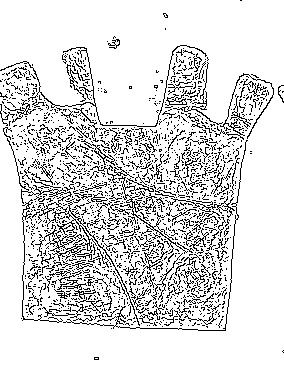
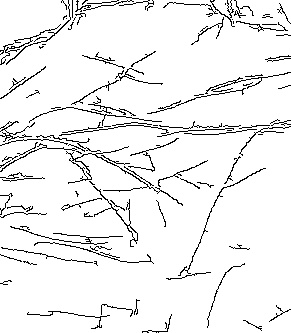
线条提取

diff --git a/zi_ext.py b/zi_ext.py
@@ -1,0 +1,114 @@
+# -*- coding: utf-8 -*-
+"""
+Created on Tue Mar 20 10:53:50 2018
+
+@author: Administrator
+"""
+import cv2 as cv
+import numpy as np
+
+
+def VThin(image, array):
+    h = image.shape[1]
+    w = image.shape[0]
+    NEXT = 1
+    for i in range(399):
+        for j in range(399):
+            if NEXT == 0:
+                NEXT = 1
+            else:
+                M = image[i, j - 1] + image[i, j] + image[i, j + 1] if 0 < j < w - 1 else 1
+                if image[i, j] == 0 and M != 0:
+                    a = [0] * 9
+                    for k in range(3):
+                        for l in range(3):
+                            if -1 < (i - 1 + k) < h and -1 < (j - 1 + l) < w and image[i - 1 + k, j - 1 + l] == 255:
+                                a[k * 3 + l] = 1
+                    sum = a[0] * 1 + a[1] * 2 + a[2] * 4 + a[3] * 8 + a[5] * 16 + a[6] * 32 + a[7] * 64 + a[8] * 128
+                    image[i, j] = array[sum] * 255
+                    if array[sum] == 1:
+                        NEXT = 0
+    return image
+
+
+print('4')
+
+
+def HThin(image, array):
+    h = image.shape[1]
+    w = image.shape[0]
+    NEXT = 1
+    for j in range(399):
+        for i in range(399):
+            if NEXT == 0:
+                NEXT = 1
+            else:
+                M = image[i - 1, j] + image[i, j] + image[i + 1, j] if 0 < i < h - 1 else 1
+                if image[i, j] == 0 and M != 0:
+                    a = [0] * 9
+                    for k in range(3):
+                        for l in range(3):
+                            if -1 < (i - 1 + k) < h and -1 < (j - 1 + l) < w and image[i - 1 + k, j - 1 + l] == 255:
+                                a[k * 3 + l] = 1
+                    sum = a[0] * 1 + a[1] * 2 + a[2] * 4 + a[3] * 8 + a[5] * 16 + a[6] * 32 + a[7] * 64 + a[8] * 128
+                    image[i, j] = array[sum] * 255
+                    if array[sum] == 1:
+                        NEXT = 0
+    return image
+
+
+print('3')
+
+
+def Xihua(image, array, num=10):
+    h = image.shape[1]
+    w = image.shape[0]
+    iXihua = np.zeros((w, h, 1), dtype=np.uint8)
+    np.copyto(iXihua, image)
+    for i in range(num):
+        VThin(iXihua, array)
+        HThin(iXihua, array)
+    return iXihua
+
+
+print('2')
+
+
+def Two(image):
+    h = image.shape[1]
+    w = image.shape[0]
+
+    iTwo = np.zeros((w, h, 1), dtype=np.uint8)
+    for i in range(399):
+        for j in range(399):
+            iTwo[i, j] = 0 if image[i, j] < 200 else 255
+    return iTwo
+
+
+print('1')
+array = [0, 0, 1, 1, 0, 0, 1, 1, 1, 1, 0, 1, 1, 1, 0, 1, \
+         1, 1, 0, 0, 1, 1, 1, 1, 0, 0, 0, 0, 0, 0, 0, 1, \
+         0, 0, 1, 1, 0, 0, 1, 1, 1, 1, 0, 1, 1, 1, 0, 1, \
+         1, 1, 0, 0, 1, 1, 1, 1, 0, 0, 0, 0, 0, 0, 0, 1, \
+         1, 1, 0, 0, 1, 1, 0, 0, 0, 0, 0, 0, 0, 0, 0, 0, \
+         0, 0, 0, 0, 0, 0, 0, 0, 0, 0, 0, 0, 0, 0, 0, 0, \
+         1, 1, 0, 0, 1, 1, 0, 0, 1, 1, 0, 1, 1, 1, 0, 1, \
+         0, 0, 0, 0, 0, 0, 0, 0, 0, 0, 0, 0, 0, 0, 0, 0, \
+         0, 0, 1, 1, 0, 0, 1, 1, 1, 1, 0, 1, 1, 1, 0, 1, \
+         1, 1, 0, 0, 1, 1, 1, 1, 0, 0, 0, 0, 0, 0, 0, 1, \
+         0, 0, 1, 1, 0, 0, 1, 1, 1, 1, 0, 1, 1, 1, 0, 1, \
+         1, 1, 0, 0, 1, 1, 1, 1, 0, 0, 0, 0, 0, 0, 0, 0, \
+         1, 1, 0, 0, 1, 1, 0, 0, 0, 0, 0, 0, 0, 0, 0, 0, \
+         1, 1, 0, 0, 1, 1, 1, 1, 0, 0, 0, 0, 0, 0, 0, 0, \
+         1, 1, 0, 0, 1, 1, 0, 0, 1, 1, 0, 1, 1, 1, 0, 0, \
+         1, 1, 0, 0, 1, 1, 1, 0, 1, 1, 0, 0, 1, 0, 0, 0]
+print('5')
+image = cv.imread('/Users/yusi/Desktop/cv_palm/similarity/test3/PolyU_06_1.bmp', 0)
+iTwo = Two(image)
+iThin = Xihua(iTwo, array)
+cv.imshow('image', image)
+cv.imshow('iTwo', iTwo)
+cv.imshow('iThin', iThin)
+cv.waitKey(0)
+cv.imwrite('/Users/yusi/Desktop/cv_palm/similarity/test3/PolyU_06_2.bmp',iThin)
+

diff --git a/plam2line/Line_extraction.py b/plam2line/Line_extraction.py
@@ -1,25 +1,16 @@
-#!/usr/bin/env python3
-# -*- coding: utf-8 -*-
-# Author:  钉钉或微信pythontesting 技术支持qq群：630011153 144081101
-# 
-# CreateDate: 2019-2-21
 import cv2
-image = cv2.imread("/Users/yusi/Desktop/cv_palm/similarity/test3/PolyU_06_1.bmp")
+
+image = cv2.imread("/Users/yusi/Desktop/cv_palm/palm_test.jpg")
 cv2.imshow("palm",image) #to view the palm in python
-cv2.waitKey(0)
-
+#转化为灰度图
 gray = cv2.cvtColor(image,cv2.COLOR_BGR2GRAY)
+#提取边缘
+edges = cv2.Canny(gray,50,180,apertureSize = 3)
 
-edges = cv2.Canny(gray,60,65,apertureSize = 3)
-cv2.imshow("edges",edges)
-cv2.waitKey(0)
+#转换成白底黑纹
+lines = cv2.bitwise_not(edges)
 
-edges = cv2.bitwise_not(edges)
-cv2.imshow("change black and white",edges)
-cv2.waitKey(0)
-
-cv2.imwrite("palmlines.jpg", edges)
-palmlines = cv2.imread("palmlines.jpg")
-img = cv2.addWeighted(palmlines, 0.3, image, 0.7, 0)
-cv2.imshow("lines in palm", img)
+#保存图片
+# cv2.imwrite("palmlines.jpg", edges)
+cv2.imshow("test",lines)
 cv2.waitKey(0)

diff --git a/similarity/hash.py b/similarity/hash.py
@@ -54,8 +54,8 @@ def cmpHash(hash1,hash2):
             n=n+1
     return n
 
-img1=cv2.imread('/Users/yusi/Desktop/cv_palm/skeleton_extraction/skeleton1.jpg')
-img2=cv2.imread('/Users/yusi/Desktop/cv_palm/similarity/test1/005_3.jpg')
+img1=cv2.imread('/Users/yusi/Desktop/cv_palm/similarity/test1/005_3.jpg')
+img2=cv2.imread('/Users/yusi/Desktop/cv_palm/similarity/test1/zi.jpg')
 hash1= aHash(img1)
 hash2= aHash(img2)
 print(hash1)

diff --git a/skeleton_extraction/skeleton.py b/skeleton_extraction/skeleton.py
@@ -44,7 +44,7 @@ array = [0, 0, 1, 1, 0, 0, 1, 1, 1, 1, 0, 1, 1, 1, 0, 1,\
 
 
 if __name__ == '__main__':
-    src = cv2.imread('/Users/yusi/Desktop/cv_palm/similarity/test3/未标题-1.jpg', 0)
+    src = cv2.imread('/Users/yusi/Desktop/cv_palm/plam2line/palmlines.jpg', 0)
     Gauss_img = cv2.GaussianBlur(src, (3,3), 0)
     cv2.imshow('image', Gauss_img)
     cv2.waitKey(0)
